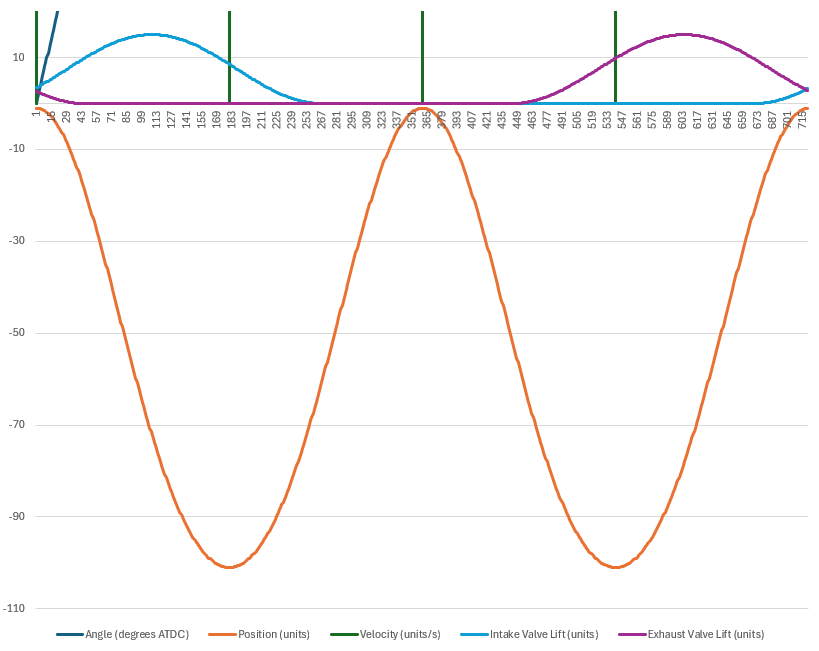
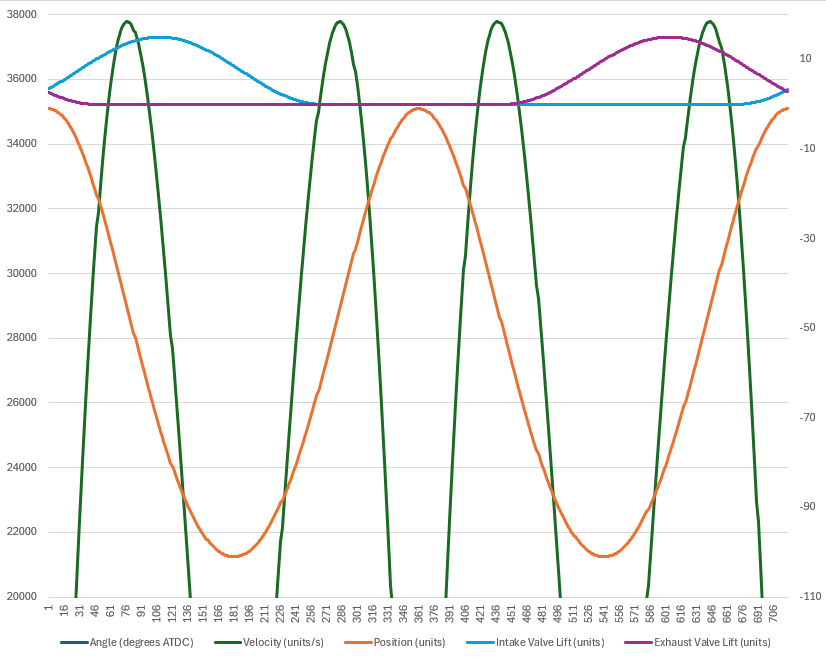
Updated valve events into standard convention

diff --git a/Program.cs b/Program.cs
@@ -133,7 +133,7 @@ namespace PistonMotion
 
             Console.Write($"Combustion Chamber Volume ({volumeUnits}): ");
             string chamberVolumeInput = Console.ReadLine();
-            arguments.ChamberVolume = string.IsNullOrWhiteSpace(chamberVolumeInput) ? 70.0 : double.Parse(chamberVolumeInput);
+            arguments.ChamberVolume = string.IsNullOrWhiteSpace(chamberVolumeInput) ? 80.0 : double.Parse(chamberVolumeInput);
 
             Console.Write($"Head Gasket Compressed Thickness ({units}): ");
             string gasketHeightInput = Console.ReadLine();
@@ -412,6 +412,59 @@ namespace PistonMotion
             return Math.Abs(angVelocity * (term1 + term2));
         }
 
+        private static string ConvertToConventionalTiming(double absoluteDegrees)
+        {
+            // 4-stroke cycle reference points:
+            // 0° = Compression TDC (start of power stroke)
+            // 180° = BDC (middle of power stroke)
+            // 360° = Exhaust TDC (end of exhaust stroke, start of intake)
+            // 540° = BDC (middle of intake stroke)
+            // 720° = Compression TDC (end of compression stroke)
+
+            // Normalize angle to 0-720 range
+            double angle = absoluteDegrees % 720;
+            if (angle < 0) angle += 720;
+
+            if (angle >= 0 && angle < 180)
+            {
+                // Power stroke: 0-180° ATDC
+                return $"{angle:F0}° ATDC";
+            }
+            else if (angle >= 180 && angle < 360)
+            {
+                // Exhaust stroke: 180-360° ATDC or measured from BDC
+                double fromBDC = angle - 180;
+                return $"{fromBDC:F0}° ABDC";
+            }
+            else if (angle >= 360 && angle < 540)
+            {
+                // Intake stroke: measured from intake TDC (360°)
+                double fromIntakeTDC = angle - 360;
+                if (fromIntakeTDC <= 90)
+                {
+                    return $"{fromIntakeTDC:F0}° ATDC";
+                }
+                else
+                {
+                    double toBDC = 540 - angle;
+                    return $"{toBDC:F0}° BBDC";
+                }
+            }
+            else // angle >= 540 && angle < 720
+            {
+                // Compression stroke: measured relative to compression TDC (720°/0°)
+                double fromBDC = angle - 540;
+                if (fromBDC <= 90)
+                {
+                    return $"{fromBDC:F0}° ABDC";
+                }
+                else
+                {
+                    double toTDC = 720 - angle;
+                    return $"{toTDC:F0}° BTDC";
+                }
+            }
+        }
         public static void DisplayResults(Arguments arguments, ConsoleResults results)
         {
             string units = arguments.IsMetric ? "mm" : "inches";
@@ -438,8 +491,17 @@ namespace PistonMotion
             if (arguments.IncludeCamProfile && arguments.CamSpec != null)
             {
                 Console.WriteLine("\n=== CAM TIMING SUMMARY ===");
-                Console.WriteLine($"Intake:  Opens {arguments.CamSpec.IntakeCam.OpeningPoint:F1}°, Closes {arguments.CamSpec.IntakeCam.ClosingPoint:F1}°, Max lift {arguments.CamSpec.IntakeCam.MaxLift * arguments.CamSpec.IntakeCam.RockerRatio:F3} {units}");
-                Console.WriteLine($"Exhaust: Opens {arguments.CamSpec.ExhaustCam.OpeningPoint:F1}°, Closes {arguments.CamSpec.ExhaustCam.ClosingPoint:F1}°, Max lift {arguments.CamSpec.ExhaustCam.MaxLift * arguments.CamSpec.ExhaustCam.RockerRatio:F3} {units}");
+
+                // Calculate conventional timing for intake
+                string intakeOpenConventional = ConvertToConventionalTiming(arguments.CamSpec.IntakeCam.OpeningPoint);
+                string intakeCloseConventional = ConvertToConventionalTiming(arguments.CamSpec.IntakeCam.ClosingPoint);
+
+                // Calculate conventional timing for exhaust
+                string exhaustOpenConventional = ConvertToConventionalTiming(arguments.CamSpec.ExhaustCam.OpeningPoint);
+                string exhaustCloseConventional = ConvertToConventionalTiming(arguments.CamSpec.ExhaustCam.ClosingPoint);
+
+                Console.WriteLine($"Intake:  Opens {arguments.CamSpec.IntakeCam.OpeningPoint:F1}° ({intakeOpenConventional}), Closes {arguments.CamSpec.IntakeCam.ClosingPoint:F1}° ({intakeCloseConventional}), Max lift {arguments.CamSpec.IntakeCam.MaxLift * arguments.CamSpec.IntakeCam.RockerRatio:F3} {units}");
+                Console.WriteLine($"Exhaust: Opens {arguments.CamSpec.ExhaustCam.OpeningPoint:F1}° ({exhaustOpenConventional}), Closes {arguments.CamSpec.ExhaustCam.ClosingPoint:F1}° ({exhaustCloseConventional}), Max lift {arguments.CamSpec.ExhaustCam.MaxLift * arguments.CamSpec.ExhaustCam.RockerRatio:F3} {units}");
             }
         }
 
